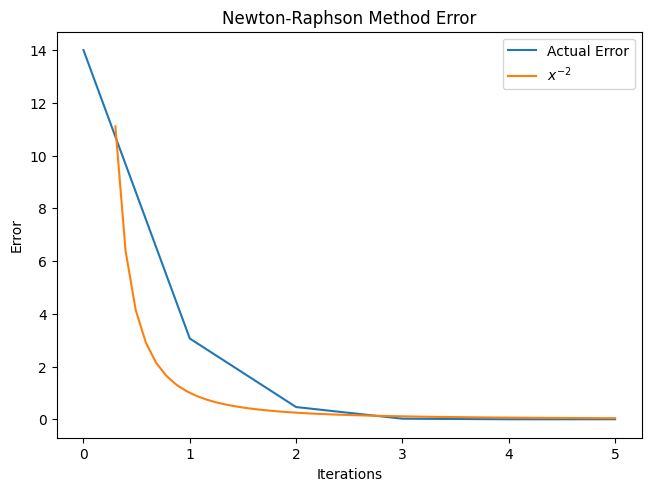
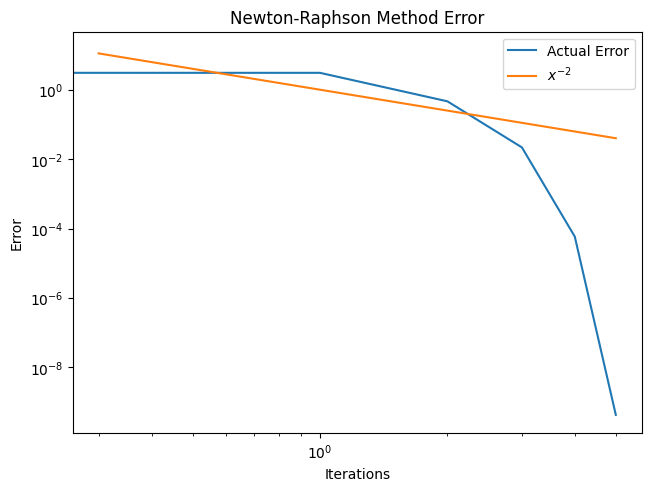
MATH5420: More cleanup for Homework 3 template.

diff --git a/2023/spring/MATH5420_Optimization/Homework3/problem_9.py b/2023/spring/MATH5420_Optimization/Homework3/problem_9.py
@@ -1,0 +1,94 @@
+import numpy as np
+import matplotlib.pyplot as plt
+
+from basic_solutions import compute_basic_solutions
+
+# Plot constraints
+#
+plt.rcParams['text.usetex'] = True
+
+plt.title('Feasible Region')
+plt.xlabel('$x_1$')
+plt.ylabel('$x_2$')
+
+x_min, x_max = (-.5, 6)
+y_min, y_max = (-.5, 6)
+
+sample_size = 300
+
+xx1, xx2 = np.meshgrid(
+    np.linspace(x_min, x_max, sample_size),
+    np.linspace(y_min, y_max, sample_size),
+)
+
+x1_min = 0
+x2_min = 0
+
+a0 = np.ones(xx1.shape) * x1_min
+a1 = np.ones(xx1.shape) * x2_min
+
+a2 = 4 - (4 * xx1) / 3
+a3 = (1/2) * xx1 - 1
+
+plt.imshow(
+    (
+            (xx1 >= a0)
+            & (xx2 >= a1)
+            & (xx2 <= a2)
+            & (xx2 >= a3)
+    ).astype(int),
+    extent=(x_min, x_max, y_min, y_max),
+    origin='lower',
+    cmap='Greys',
+    alpha=0.25
+)
+
+plt.plot(xx1[0, :], a2[0, :], label=r'$x_2 \le -\frac{4}{3}x_1 + 4$')
+plt.plot(xx1[0, :], a3[0, :], label=r'$x_2 \ge \frac{1}{2}x_1 - 1$')
+
+plt.plot(xx1[0, :], a1[0, :], 'k--', label=r'$x_2 \ge {}$'.format(x2_min))
+plt.axvline(x=x1_min, label=r'$x_1 \ge {}$'.format(x1_min), color='gray', linestyle='dashed')
+
+plt.plot([1], [1], marker='o', markersize=3, markerfacecolor='green')
+
+plt.legend(loc='upper right')
+plt.xlim((x_min, x_max))
+plt.ylim((y_min, y_max))
+plt.grid(True)
+
+plt.savefig('problem_9.png', bbox_inches='tight')
+
+
+# Find basic solutions
+#
+A = np.array((
+    (4, 3, 1, 0),
+    (1, -2, 0, 1),
+))
+
+b = np.array((
+    12,
+    2,
+))
+
+rows, cols = A.shape
+solns = compute_basic_solutions(A, b, var_names=['x1', 'x2', 's1', 's2'])
+
+for s in solns:
+    soln = s.get('solution')
+    pretty_basis = s.get('formatted_basis')
+    print('Basis: {}'.format(pretty_basis))
+    print('B: {}'.format(np.array([A[:, k] for k in s.get('basis')]).T))
+
+    if soln is not None:
+        full_solution = [0] * cols
+        for i, beta in enumerate(s.get('basis')):
+            full_solution[beta] = soln[i]
+
+        feasible = all(i >= 0 for i in full_solution)
+        print('Solution ({}feasible): {}'.format('' if feasible else 'in', full_solution))
+    else:
+        print('No solution exists!')
+
+    print('')
+    input('Press [Enter] to see the next point:')

diff --git a/2023/spring/MATH5420_Optimization/Homework2/problem_3.py b/2023/spring/MATH5420_Optimization/Homework2/problem_3.py
@@ -17,8 +17,8 @@ print('')
 
 fig, ax = plt.subplots(constrained_layout=True)
 xx = np.linspace(0.3, len(iterations) - 1)
-ax.plot(range(len(iterations)), [err for xk, fk, err in iterations], label='Actual Error')
-ax.plot(xx, np.power(xx, -2), label='$x^{-2}$')
+ax.loglog(range(len(iterations)), [err for xk, fk, err in iterations], label='Actual Error')
+ax.loglog(xx, np.power(xx, -2), label='$x^{-2}$')
 ax.legend()
 ax.set_xlabel('Iterations')
 ax.set_ylabel('Error')

diff --git a/2023/spring/MATH5420_Optimization/Homework3/problem_9.tex b/2023/spring/MATH5420_Optimization/Homework3/problem_9.tex
@@ -9,9 +9,12 @@ Consider the linear program
   \addConstraint{x_1, x_2}{\geq 0}
 \end{mini*}
  
-Represent the point $x = (5, 2)^T$ as a convex combination of extreme points plus, if applicable, a direction of 
+Represent the point $x = (1, 1)^T$ as a convex combination of extreme points plus, if applicable, a direction of 
 unboundedness. Find three different representations.
 
 \begin{solution}
   \ \\
+  \pagebreak
+  \ \\
+  \vfill
 \end{solution}

diff --git a/2023/spring/MATH5420_Optimization/Homework3/problem_6i.tex b/2023/spring/MATH5420_Optimization/Homework3/problem_6i.tex
@@ -1,11 +1,13 @@
 Determine the extreme points for the feasible region.
 
 \begin{solution}
+  \ \\
   \begin{figure}[h]
     \centering
     \includegraphics[width=0.6\textwidth]{problem_6i.png}
     \caption{Feasible Region}
     \label{fig:problem_6i}
   \end{figure}
+  \vfill
   \ \\
 \end{solution}

diff --git a/2023/spring/MATH5420_Optimization/Homework3/problem_1ii.tex b/2023/spring/MATH5420_Optimization/Homework3/problem_1ii.tex
@@ -8,11 +8,13 @@
 \end{maxi*}
 
 \begin{solution}
+  \ \\
   \begin{figure}[h]
     \centering
     \includegraphics[width=0.6\textwidth]{problem_1ii.png}
     \caption{Feasible Region for maximizing $z = x_1 + 2x_2$}
     \label{fig:problem_1ii}
   \end{figure}
+  \vfill
   \ \\
 \end{solution}

diff --git a/2023/spring/MATH5420_Optimization/Homework3/problem_1iii.tex b/2023/spring/MATH5420_Optimization/Homework3/problem_1iii.tex
@@ -7,11 +7,13 @@
 
 
 \begin{solution}
+  \ \\
   \begin{figure}[h]
     \centering
     \includegraphics[width=0.6\textwidth]{problem_1iii.png}
     \caption{Feasible Region for minimizing $z = x_1 - 2x_2$}
     \label{fig:problem_1iii}
   \end{figure}
+  \vfill
   \ \\
 \end{solution}

diff --git a/2023/spring/MATH5420_Optimization/Homework3/problem_6ii.tex b/2023/spring/MATH5420_Optimization/Homework3/problem_6ii.tex
@@ -2,4 +2,11 @@ Convert the problem to standard form, and determine the basic feasible solutions
 
 \begin{solution}
   \ \\
+  \vfill
+  \pagebreak
+  \ \\
+  \vfill
+  \pagebreak
+  \ \\
+  \vfill
 \end{solution}

diff --git a/2023/spring/MATH5420_Optimization/Homework3/problem_6ii.py b/2023/spring/MATH5420_Optimization/Homework3/problem_6ii.py
@@ -2,8 +2,6 @@ import numpy as np
 
 from basic_solutions import compute_basic_solutions
 
-# Test against Griva, Nash, Sofer Example 4.3
-#
 A = np.array((
     (2, 1, 1, 0, 0, 0),
     (3, 1, 0, 1, 0, 0),

diff --git a/2023/spring/MATH5420_Optimization/Homework3/problem_4i.tex b/2023/spring/MATH5420_Optimization/Homework3/problem_4i.tex
@@ -2,4 +2,9 @@ Write this system of constraints in standard form, and determine all the basic s
 
 \begin{solution}
   \ \\
+  \pagebreak
+  \ \\
+  \pagebreak
+  \ \\
+  \vfill
 \end{solution}

diff --git a/2023/spring/MATH5420_Optimization/Homework3/problem_5i.tex b/2023/spring/MATH5420_Optimization/Homework3/problem_5i.tex
@@ -1,6 +1,7 @@
 Draw a graph of the feasible region.
 
 \begin{solution}
+  \ \\
   \begin{figure}[h]
     \centering
     \includegraphics[width=0.6\textwidth]{problem_5i.png}

diff --git a/2023/spring/MATH5420_Optimization/Homework3/problem_2.tex b/2023/spring/MATH5420_Optimization/Homework3/problem_2.tex
@@ -12,4 +12,9 @@ Convert the following linear program to standard form:
 
 \begin{solution}
   \ \\
+  \vfill
+  \pagebreak
+  \ \\
+  \vfill
+  \ \\
 \end{solution}

diff --git a/2023/spring/MATH5420_Optimization/Homework3/problem_3.tex b/2023/spring/MATH5420_Optimization/Homework3/problem_3.tex
@@ -12,4 +12,9 @@ Convert the following linear program to standard form:
 
 \begin{solution}
   \ \\
+  \vfill
+  \pagebreak
+  \ \\
+  \vfill
+  \ \\
 \end{solution}
